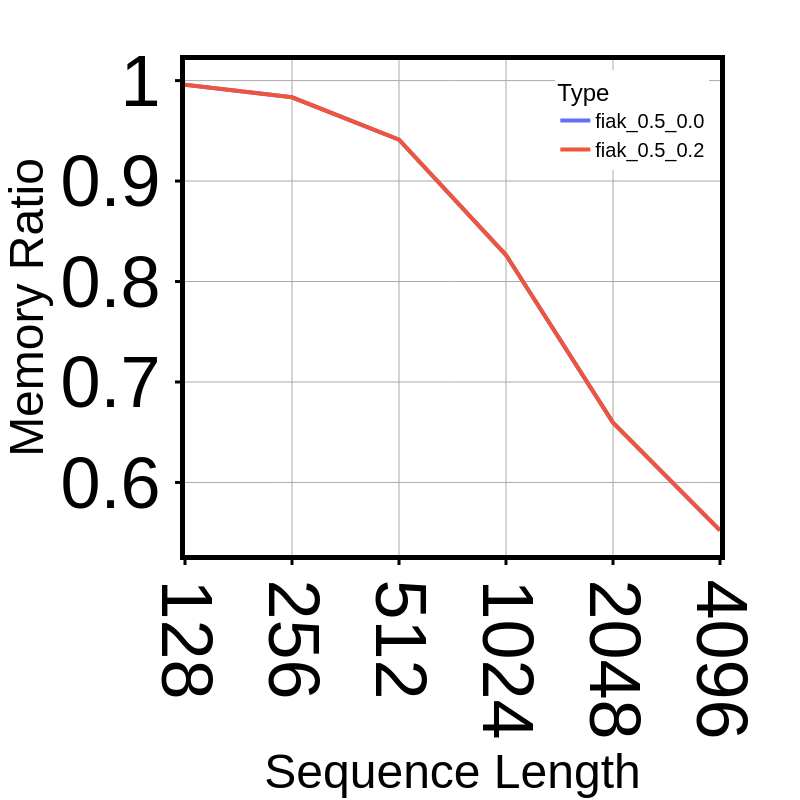
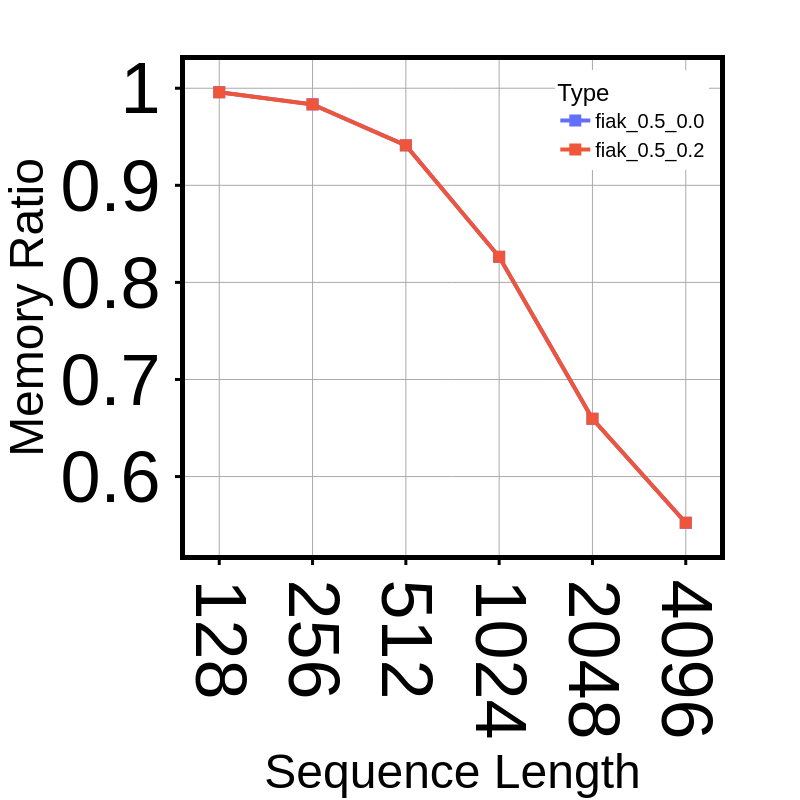
updated plot eff E5

diff --git a/gmm/plot_eff.py b/gmm/plot_eff.py
@@ -101,14 +101,18 @@ class FigFormat:
             **axes,
         )
         
-        if with_line:
-            fig.update_traces(
-                line=dict(width=self.size['line']),
-            )
-        if with_marker:
-            fig.update_traces(
-                marker=dict(size=self.size['marker'], symbol='square'),
-            )
+        fig.update_traces(
+            line=dict(width=self.size['line']),
+            marker=dict(size=self.size['marker'], symbol='square'),
+        )
+        # if with_line:
+        #     fig.update_traces(
+        #         line=dict(width=self.size['line']),
+        #     )
+        # if with_marker:
+        #     fig.update_traces(
+        #         marker=dict(size=self.size['marker'], symbol='square'),
+        #     )
                 
         
         legend_margin = 0.02
@@ -259,8 +263,10 @@ fig_flops = px.line(
     x='seq_len_str',
     y='flop',
     color='type_full',
+    markers=True,
 )
-figs_flops = FF.format_dual(fig_flops, y_title='FLOPS Ratio',)
+figs_flops = FF.format_dual(
+    fig_flops, y_title='FLOPS Ratio')
 figs_flops[0].show(), figs_flops[1].show()
 
 # %%
@@ -269,6 +275,7 @@ fig_mem = px.line(
     x='seq_len_str',
     y='mem',
     color='type_full',
+    markers=True,
 )
 figs_mem = FF.format_dual(
     fig_mem,
@@ -287,6 +294,7 @@ fig_flops_block = px.line(
     x='seq_len_str',
     y='flop',
     color='type_full',
+    markers=True,
 )
 figs_flops_block = FF.format_dual(fig_flops_block, y_title='FLOPS Ratio',)
 figs_flops_block[0].show(), figs_flops_block[1].show()
@@ -297,6 +305,7 @@ fig_mem_block = px.line(
     x='seq_len_str',
     y='mem',
     color='type_full',
+    markers=True,
 )
 figs_mem_block = FF.format_dual(
     fig_mem_block,
